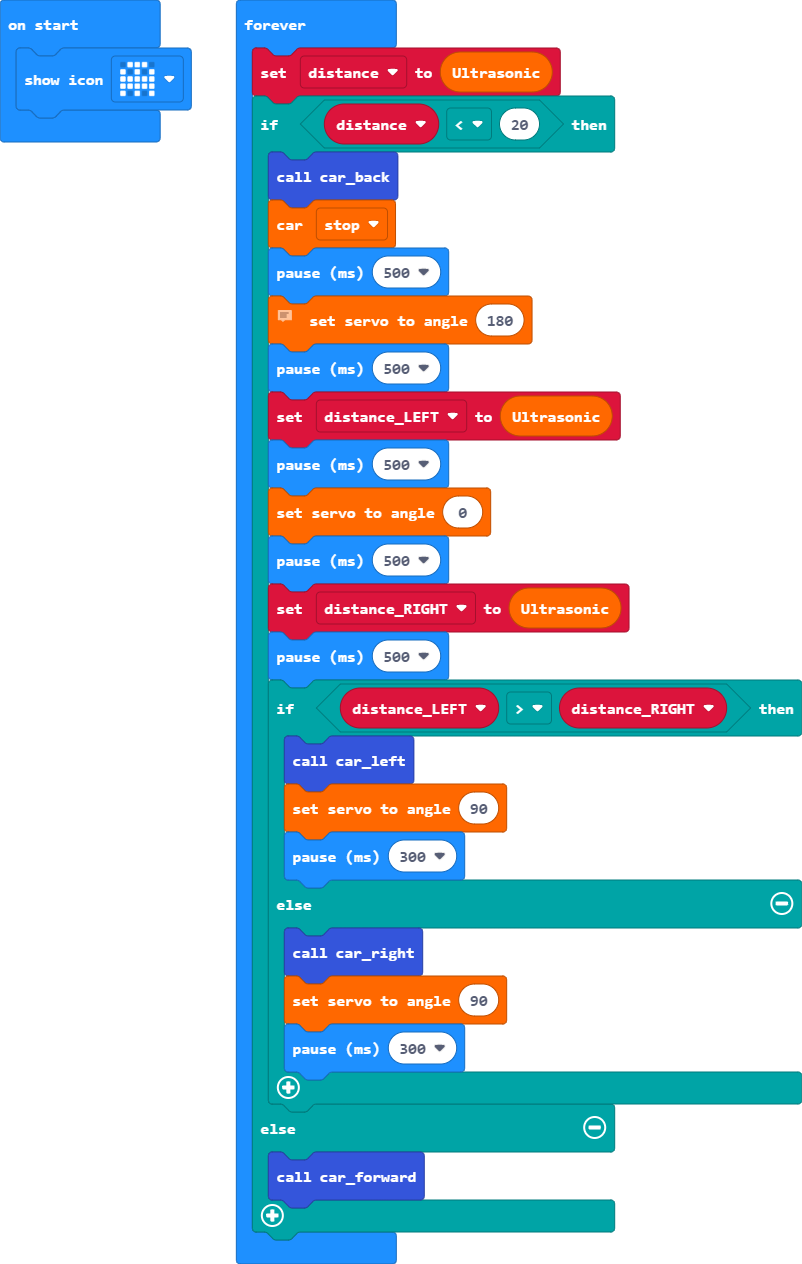
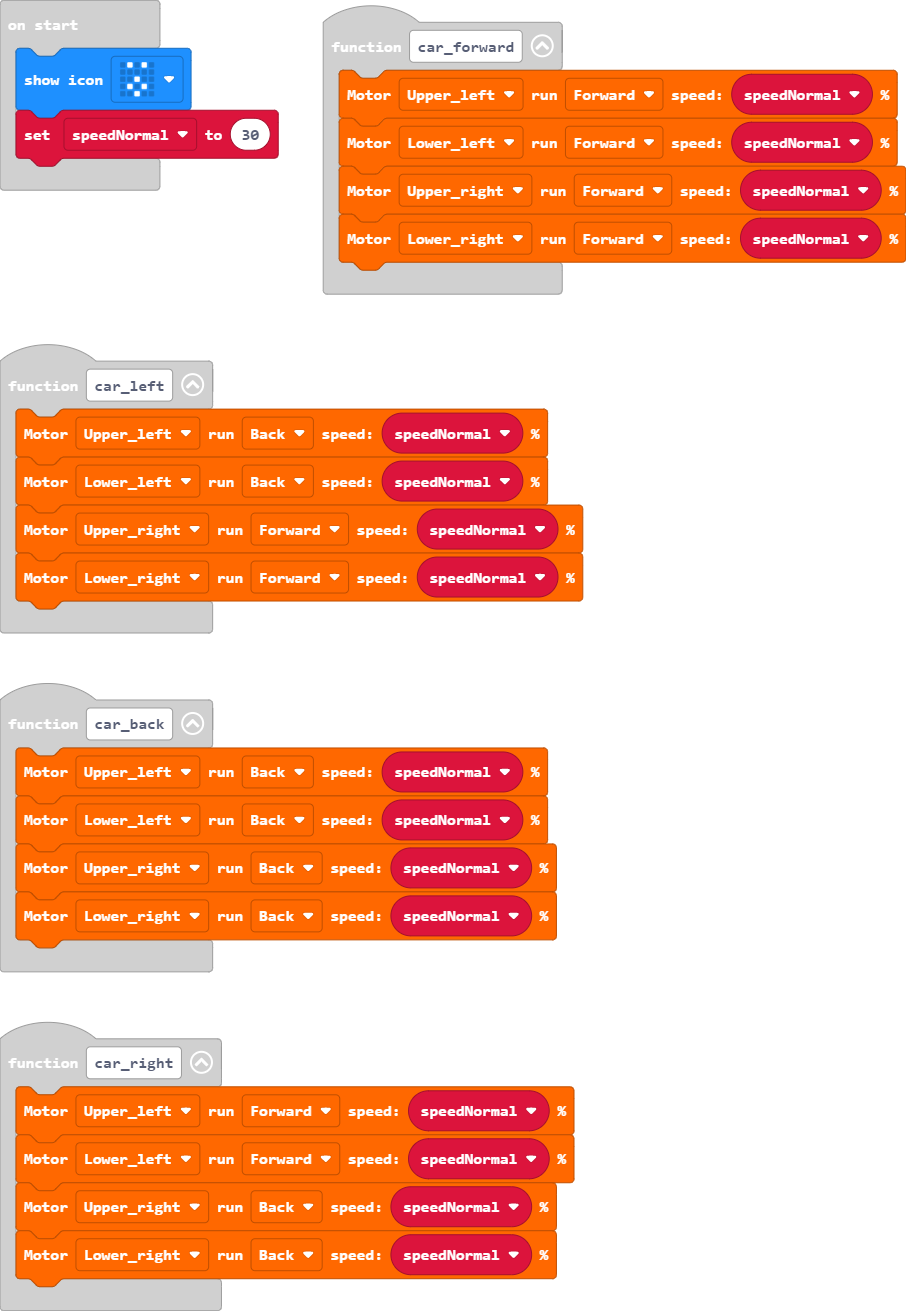
Update main.blocks, main.ts

diff --git a/main.ts b/main.ts
@@ -1,31 +1,33 @@
 function car_back () {
-    mecanumRobot.Motor(LR.Upper_left, MD.Back, 50)
-    mecanumRobot.Motor(LR.Lower_left, MD.Back, 50)
-    mecanumRobot.Motor(LR.Upper_right, MD.Back, 50)
-    mecanumRobot.Motor(LR.Lower_right, MD.Back, 50)
+    mecanumRobot.Motor(LR.Upper_left, MD.Back, speedNormal)
+    mecanumRobot.Motor(LR.Lower_left, MD.Back, speedNormal)
+    mecanumRobot.Motor(LR.Upper_right, MD.Back, speedNormal)
+    mecanumRobot.Motor(LR.Lower_right, MD.Back, speedNormal)
 }
 function car_left () {
-    mecanumRobot.Motor(LR.Upper_left, MD.Back, 50)
-    mecanumRobot.Motor(LR.Lower_left, MD.Back, 50)
-    mecanumRobot.Motor(LR.Upper_right, MD.Forward, 50)
-    mecanumRobot.Motor(LR.Lower_right, MD.Forward, 50)
+    mecanumRobot.Motor(LR.Upper_left, MD.Back, speedNormal)
+    mecanumRobot.Motor(LR.Lower_left, MD.Back, speedNormal)
+    mecanumRobot.Motor(LR.Upper_right, MD.Forward, speedNormal)
+    mecanumRobot.Motor(LR.Lower_right, MD.Forward, speedNormal)
 }
 function car_forward () {
-    mecanumRobot.Motor(LR.Upper_left, MD.Forward, 50)
-    mecanumRobot.Motor(LR.Lower_left, MD.Forward, 50)
-    mecanumRobot.Motor(LR.Upper_right, MD.Forward, 50)
-    mecanumRobot.Motor(LR.Lower_right, MD.Forward, 50)
+    mecanumRobot.Motor(LR.Upper_left, MD.Forward, speedNormal)
+    mecanumRobot.Motor(LR.Lower_left, MD.Forward, speedNormal)
+    mecanumRobot.Motor(LR.Upper_right, MD.Forward, speedNormal)
+    mecanumRobot.Motor(LR.Lower_right, MD.Forward, speedNormal)
 }
 function car_right () {
-    mecanumRobot.Motor(LR.Upper_left, MD.Forward, 50)
-    mecanumRobot.Motor(LR.Lower_left, MD.Forward, 50)
-    mecanumRobot.Motor(LR.Upper_right, MD.Back, 50)
-    mecanumRobot.Motor(LR.Lower_right, MD.Back, 50)
+    mecanumRobot.Motor(LR.Upper_left, MD.Forward, speedNormal)
+    mecanumRobot.Motor(LR.Lower_left, MD.Forward, speedNormal)
+    mecanumRobot.Motor(LR.Upper_right, MD.Back, speedNormal)
+    mecanumRobot.Motor(LR.Lower_right, MD.Back, speedNormal)
 }
 let distance_RIGHT = 0
 let distance_LEFT = 0
 let distance = 0
-basic.showIcon(IconNames.Ghost)
+let speedNormal = 0
+basic.showIcon(IconNames.Surprised)
+speedNormal = 30
 basic.forever(function () {
     distance = mecanumRobot.ultra()
     if (distance < 20) {
